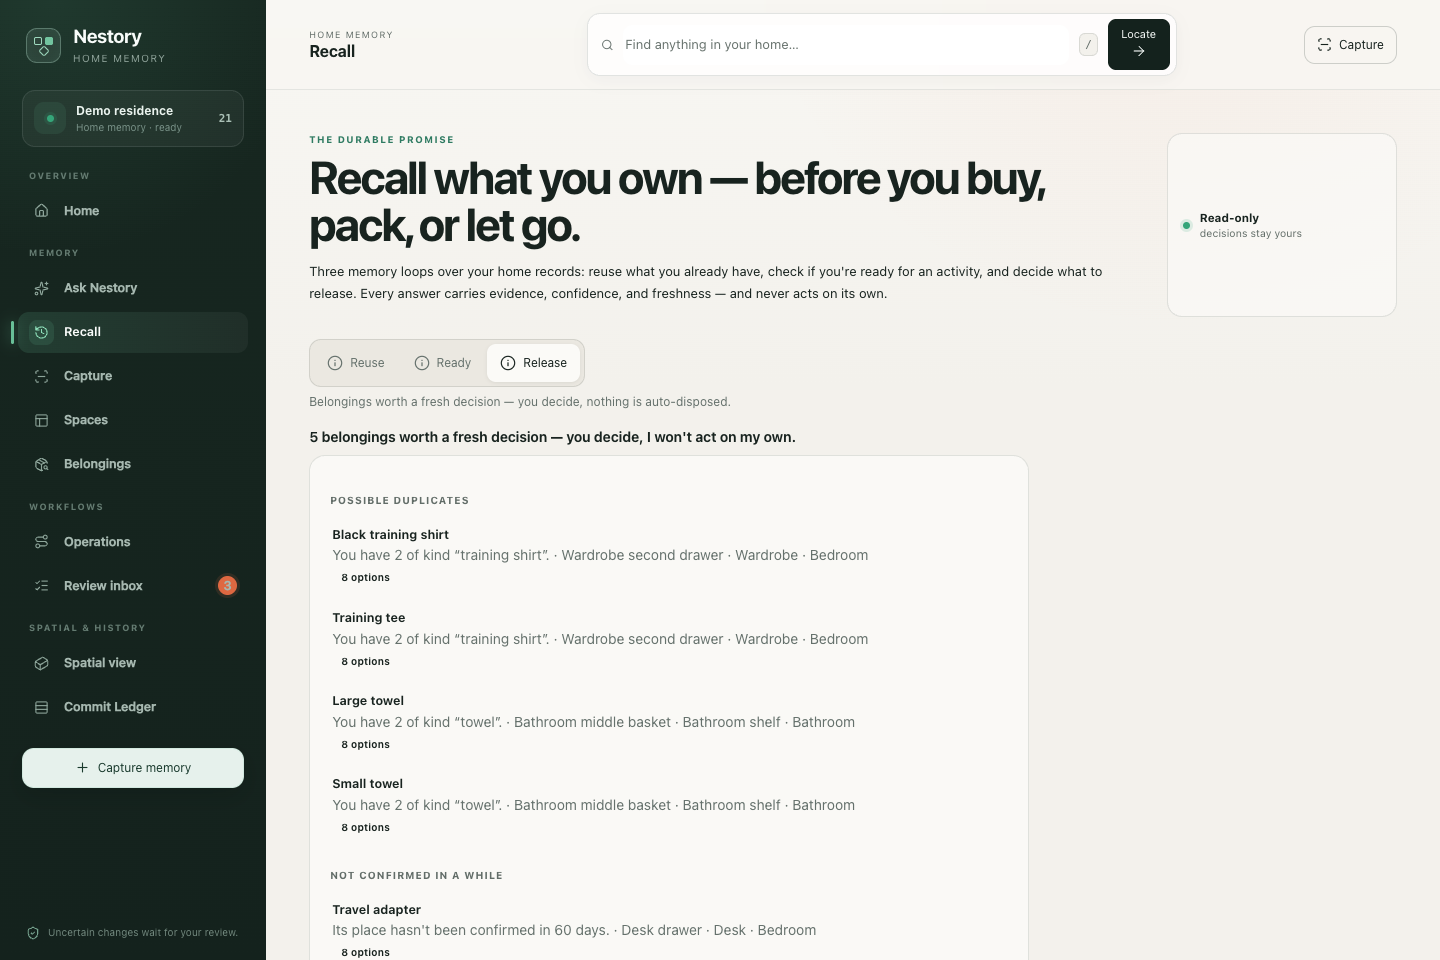
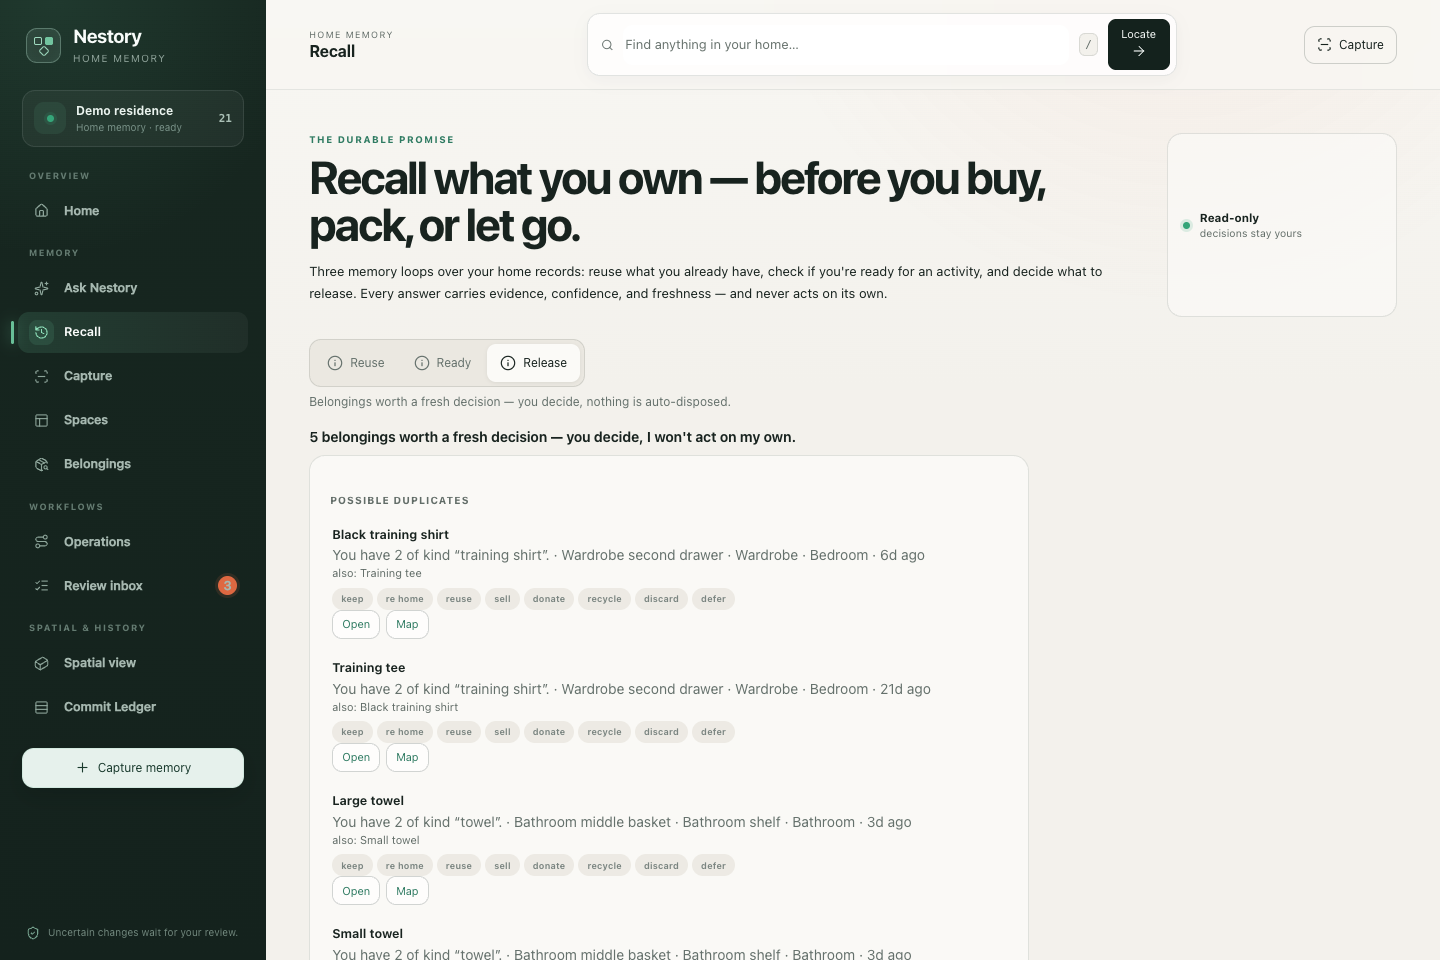
feat(nestory): close two dead-end loops — Release actions + locate/ownership next action
Two medium-ROI items from the product audit, respecting the no-auto-dispose and
"never overstate non-ownership" guardrails:

Release (audit #9): the declutter card showed an inert "N options" chip — the
product's most complete dead end. Each row now carries read-only cross-nav (Open
item, + Show on map when place is known), renders the decision options as inert
LABELS (never a state-mutating control — the system still proposes, the user
commits), lists duplicateOf names, and shows freshness on every row (not just
long-unconfirmed).

Next action (audit #8): locate/ownership already computed nextAction but nothing
read it. A no-memory locate now offers "Add "<query>" as a belonging" (prefilled
into the add-belonging modal via a new suggestedName), and the ownership
no-memory state offers the same — labeled "Add … as a belonging", never "Buy"
(the store only speaks to what's recorded).

+3 assertions (release rows have Open + inert option labels; unknown locate offers
prefilled add-belonging). 535/536 (only the pre-existing spatial-RAF flake).

Changed region(s): [[0.2188, 0.5938, 0.625, 1.0]]

diff --git a/prototype-v2/src/app.ts b/prototype-v2/src/app.ts
@@ -78,7 +78,7 @@ type ViewId = (typeof VIEWS)[number]["id"];
 type Modal =
   | { type: "container"; id: string }
   | { type: "item"; id: string }
-  | { type: "add-belonging" }
+  | { type: "add-belonging"; suggestedName?: string }
   | { type: "mobile-nav" };
 
 interface AskLogEntry {
@@ -1133,16 +1133,24 @@ function ownershipCard(o: DeepReadonly<OwnershipRecallAnswer>): string {
   </div>`).join("");
   return `<div class="card" style="box-shadow:none;margin-top:8px">
     <div style="display:flex;gap:8px;align-items:center;margin-bottom:6px">${verdictChip}<span class="muted">${o.ownedCount} owned · ${o.substituteCount} substitute(s) · ${o.availableCount} available now</span></div>
-    ${rows || '<div class="muted">Nothing recorded in this category yet.</div>'}
+    ${rows || `<div class="muted">Nothing recorded in this category yet.</div>${o.query ? `<div class="answer-actions" style="margin-top:8px"><button class="small" data-action="open-add-belonging" data-name="${esc(o.query)}">Add “${esc(o.query)}” as a belonging</button></div>` : ""}`}
   </div>`;
 }
 
 function declutterCard(d: DeepReadonly<DeclutterReviewResult>): string {
   const groups = d.groups.map((g) => `<div style="margin-top:8px">
     <div class="proposal-section-label">${esc(g.label)}</div>
-    ${g.items.map((c) => `<div class="attention-row">
-      <span class="grow"><strong>${esc(c.item)}</strong><div class="place">${esc(c.because)}${c.placeKnown ? ` · ${esc(c.chainText)}` : ""}</div></span>
-      <span class="chip">${c.options.length} option${c.options.length === 1 ? "" : "s"}</span>
+    ${g.items.map((c) => `<div class="attention-row declutter-row">
+      <span class="grow">
+        <strong>${esc(c.item)}</strong>
+        <div class="place">${esc(c.because)}${c.placeKnown ? ` · ${esc(c.chainText)}` : ""}${c.daysSinceUpdate != null ? ` · ${esc(daysLabel(c.daysSinceUpdate))}` : ""}</div>
+        ${c.duplicateOf.length ? `<div class="place faint">also: ${c.duplicateOf.map((n) => esc(n)).join(", ")}</div>` : ""}
+        <div class="declutter-options">${c.options.map((o) => `<span class="chip neutral">${esc(o.replace(/_/g, " "))}</span>`).join("")}</div>
+      </span>
+      <span class="declutter-row-actions">
+        <button class="small ghost" data-action="open-item" data-id="${esc(c.itemId)}" title="Open ${esc(c.item)}">Open</button>
+        ${c.placeKnown ? `<button class="small ghost" data-action="locate-on-map" data-item="${esc(c.itemId)}" data-q="${esc(c.item)}" title="Show ${esc(c.item)} on the map">Map</button>` : ""}
+      </span>
     </div>`).join("")}
   </div>`).join("");
   return `<div class="card" style="box-shadow:none;margin-top:8px">
@@ -1479,7 +1487,10 @@ function renderAnswerCard(a: DeepReadonly<LocateAnswer> | null): string {
   if (!a.ok) {
     return `<div class="card answer-card uncertain" data-testid="answer-card">
       <div class="sentence">${esc(a.sentence)}</div>
-      <div class="answer-actions"><button data-action="nav" data-view="belongings">Open belongings</button></div>
+      <div class="answer-actions">
+        ${a.nextAction === "add_belonging" && a.query ? `<button class="primary" data-action="open-add-belonging" data-name="${esc(a.query)}" data-testid="btn-answer-add-belonging">Add “${esc(a.query)}” as a belonging</button>` : ""}
+        <button data-action="nav" data-view="belongings">Open belongings</button>
+      </div>
     </div>`;
   }
   const ev = a.evidence.slice(-3).reverse()
@@ -2260,7 +2271,7 @@ function renderModal(): string {
   if (ui.modal.type === "mobile-nav") return mobileNavModal();
   if (ui.modal.type === "container") return containerModal(ui.modal.id);
   if (ui.modal.type === "item") return itemModal(ui.modal.id);
-  return addBelongingModal();
+  return addBelongingModal(ui.modal.suggestedName ?? "");
 }
 
 function mobileNavModal(): string {
@@ -2396,12 +2407,12 @@ function itemModal(id: string): string {
   </div>`;
 }
 
-function addBelongingModal(): string {
+function addBelongingModal(suggestedName = ""): string {
   return `<div class="modal-overlay" data-action="close-modal-overlay">
     <div class="modal" role="dialog" aria-modal="true" aria-labelledby="add-belonging-modal-title" tabindex="-1" data-testid="add-belonging-modal">
       <div class="modal-head"><h3 id="add-belonging-modal-title">Add belonging</h3><button class="close" data-action="close-modal" aria-label="Close add belonging">✕</button></div>
       <div class="form-grid">
-        <div class="full"><label for="nb-name">Name</label><input type="text" id="nb-name" maxlength="200" placeholder="e.g. Kindle"></div>
+        <div class="full"><label for="nb-name">Name</label><input type="text" id="nb-name" maxlength="200" placeholder="e.g. Kindle" value="${esc(suggestedName)}"></div>
         <div><label for="nb-kinds">Kinds / tags (comma)</label><input type="text" id="nb-kinds" placeholder="e-reader, electronics"></div>
         <div><label for="nb-importance">Importance</label><select id="nb-importance" style="width:100%"><option value="normal">normal</option><option value="high">high</option><option value="essential">essential</option></select></div>
         <div><label for="nb-default">Default home</label><select id="nb-default" style="width:100%">${containerOptions(null, { includeBoxes: false })}</select></div>
@@ -2624,7 +2635,7 @@ document.addEventListener("click", (e) => {
       render();
     } break;
     case "open-item": if (t.dataset.id) { rememberModalTrigger(t); focusViewOnRender = false; focusModalOnRender = true; ui.modal = { type: "item", id: t.dataset.id }; render(); } break;
-    case "open-add-belonging": rememberModalTrigger(t); focusViewOnRender = false; focusModalOnRender = true; ui.modal = { type: "add-belonging" }; render(); break;
+    case "open-add-belonging": rememberModalTrigger(t); focusViewOnRender = false; focusModalOnRender = true; ui.modal = { type: "add-belonging", ...(t.dataset.name ? { suggestedName: t.dataset.name } : {}) }; render(); break;
     case "close-modal": closeModal(); break;
     case "close-modal-overlay": if (e.target === t) closeModal(); break;
     case "clear-snapshot-photo": snapshotPhotoReadToken += 1; controlReturnFocus = focusBookmark(t); ui.pendingSnapshotPhoto = null; ui.mediaPending.snapshot = false; render(); break;

diff --git a/prototype-v2/src/verify.ts b/prototype-v2/src/verify.ts
@@ -2169,6 +2169,14 @@ async function runBrowserSmoke(): Promise<void> {
     assert("active-navigation-is-current-page", await evalPage<boolean>(`document.querySelector('[data-testid="nav-home"]')?.getAttribute('aria-current') === 'page'`));
     const sentence = await evalPage<string>(`window.nestory.locate("water bottle").sentence`);
     assert("dom-locate-answer", await evalPage<boolean>(`Boolean(document.querySelector('[data-testid="answer-card"]')?.textContent?.includes("Desk top"))`), sentence);
+    // #8: a no-memory locate offers the add-belonging next action the store computed
+    // (prefilled with the query), not just a generic "Open belongings".
+    assert("dom-unknown-locate-offers-add-belonging", await evalPage<boolean>(`(() => {
+      window.nestory.locate("nonexistent gizmo 9000");
+      const btn = document.querySelector('[data-testid="btn-answer-add-belonging"]');
+      return btn instanceof HTMLElement && (btn.getAttribute('data-name') ?? '').toLowerCase().includes('gizmo');
+    })()`));
+    await evalPage(`window.nestory.locate("water bottle")`);   // restore the answer card for later assertions
     assert("home-locate-answer-precedes-spatial-cockpit", await evalPage<boolean>(`(() => {
       const answer = document.querySelector('[data-testid="answer-card"]');
       const cockpit = document.querySelector('[data-testid="home-memory-cockpit"]');
@@ -2798,8 +2806,15 @@ async function runBrowserSmoke(): Promise<void> {
     // Release: switch tab, declutter review renders with its standing guarantee.
     assert("dom-recall-release-runs", await evalPage<boolean>(`(() => {
       document.querySelector('[data-testid="recall-tab-release"]')?.click();
-      const t = document.querySelector('[data-testid="recall-release"]')?.textContent ?? '';
-      return /you decide/i.test(t) && /duplicate/i.test(t);
+      const panel = document.querySelector('[data-testid="recall-release"]');
+      const t = panel?.textContent ?? '';
+      // Release is no longer a dead end: rows carry an Open action (read-only
+      // cross-nav), and the decision options render as inert LABELS — never a
+      // state-mutating control (no-auto-dispose guardrail).
+      const hasOpen = Boolean(panel?.querySelector('[data-action="open-item"]'));
+      const optionChips = [...(panel?.querySelectorAll('.declutter-options .chip') ?? [])];
+      const optionsAreInert = optionChips.length > 0 && optionChips.every((c) => !c.hasAttribute('data-action'));
+      return /you decide/i.test(t) && /duplicate/i.test(t) && hasOpen && optionsAreInert;
     })()`));
     await shot("nestory-recall.png");
 

diff --git a/prototype-v2/nestory.css b/prototype-v2/nestory.css
@@ -816,6 +816,10 @@ input::placeholder, textarea::placeholder { color: #68736e; opacity: 1; }
 .spatial-tooltip { position: fixed; z-index: 60; display: none; pointer-events: none; max-width: 230px; padding: 7px 10px; border-radius: 10px; background: var(--ink); color: #fff; box-shadow: 0 10px 30px rgba(20,34,29,.28); font-size: 11px; line-height: 1.4; }
 .spatial-tooltip strong { display: block; font-weight: 700; font-size: 12px; margin-bottom: 1px; }
 .spatial-tooltip span { color: rgba(255,255,255,.82); }
+.declutter-options { display: flex; flex-wrap: wrap; gap: 4px; margin-top: 6px; }
+.declutter-options .chip { font-size: 9px; opacity: .85; }
+.declutter-row-actions { display: inline-flex; gap: 6px; align-items: center; flex: 0 0 auto; }
+.place.faint { color: var(--ink-faint); }
 .spatial-anchor-icon { position: relative; display: grid; width: 32px; height: 32px; place-items: center; border-radius: 10px; background: #eadbc9; }
 .spatial-anchor-icon::before, .spatial-anchor-icon::after { content: ""; position: absolute; border: 2px solid #7a563d; border-radius: 2px; }
 .spatial-anchor-icon.bed::before { width: 20px; height: 12px; }

diff --git a/prototype-v2/renders/verification-report.md b/prototype-v2/renders/verification-report.md
@@ -1,12 +1,12 @@
 # Nestory V2 Verification Report
-Generated: 2026-08-21T07:58:47.121Z
+Generated: 2026-08-21T08:12:52.249Z
 Runtime: node v26.3.1 · typescript strict
-- Assertions: 535
-- Passed: 534
+- Assertions: 536
+- Passed: 535
 - Failed: 1
 - Browser smoke: ran
 - UI DOM-commit p95: 2.600 ms
-- Household UI DOM-commit p95: 6.100 ms
+- Household UI DOM-commit p95: 7.300 ms
 - Presentation latency is measured separately by `npm run browser-benchmark`; this correctness harness does not treat headless RAF scheduling as paint evidence.
 - Settled spatial RAF callbacks observed: 2
 - Screenshots: nestory-welcome.png, nestory-mobile-welcome.png, nestory-home.png, nestory-review.png, nestory-operations-move.png, nestory-operations-kit.png, nestory-plan-3d.png, nestory-plan.png, nestory-capture-scan.png, nestory-spaces.png, nestory-ask.png, nestory-recall.png, nestory-mobile-more.png, nestory-mobile-capture.png, nestory-mobile-review.png, nestory-mobile-plan.png, nestory-mobile-plan-2d.png, nestory-mobile-belongings.png, nestory-mobile-home.png, nestory-setup.png, nestory-own-home.png, nestory-boot-recovery.png
@@ -384,6 +384,7 @@ Runtime: node v26.3.1 · typescript strict
 - ✓ `actions-use-native-controls`
 - ✓ `active-navigation-is-current-page`
 - ✓ `dom-locate-answer`
+- ✓ `dom-unknown-locate-offers-add-belonging`
 - ✓ `home-locate-answer-precedes-spatial-cockpit`
 - ✓ `locate-answer-is-announced-through-persistent-region`
 - ✓ `home-locate-preserves-mounted-spatial-context`
